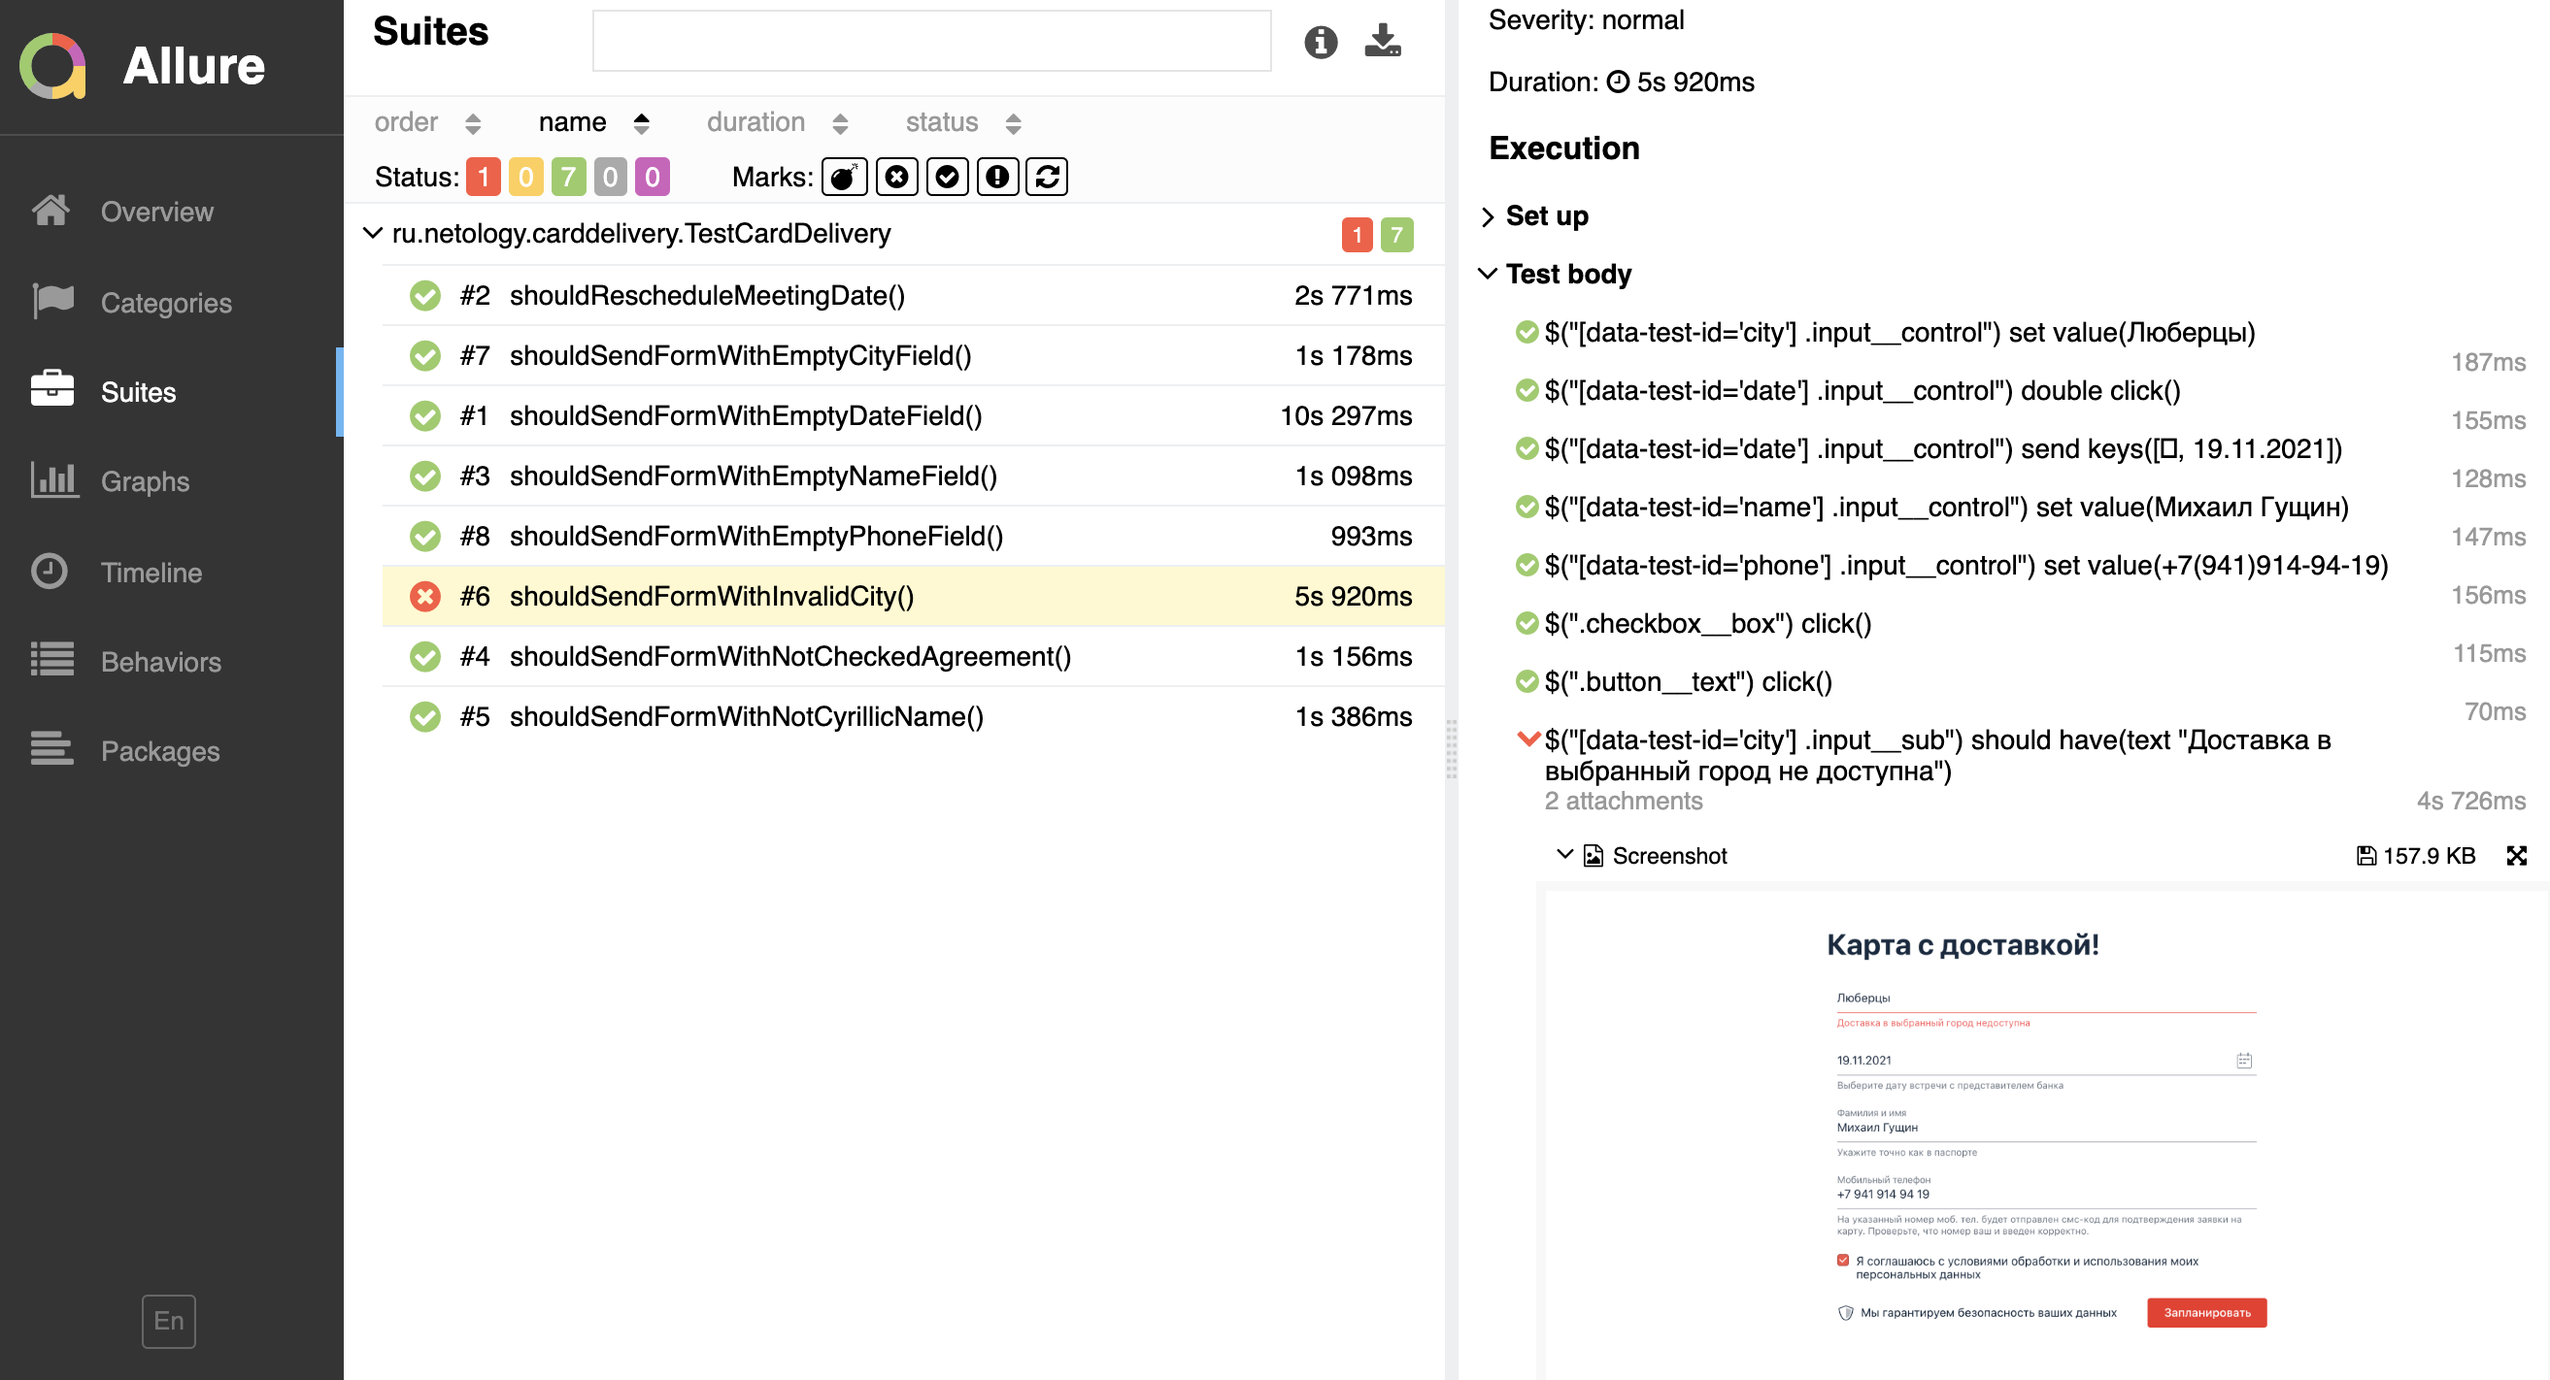
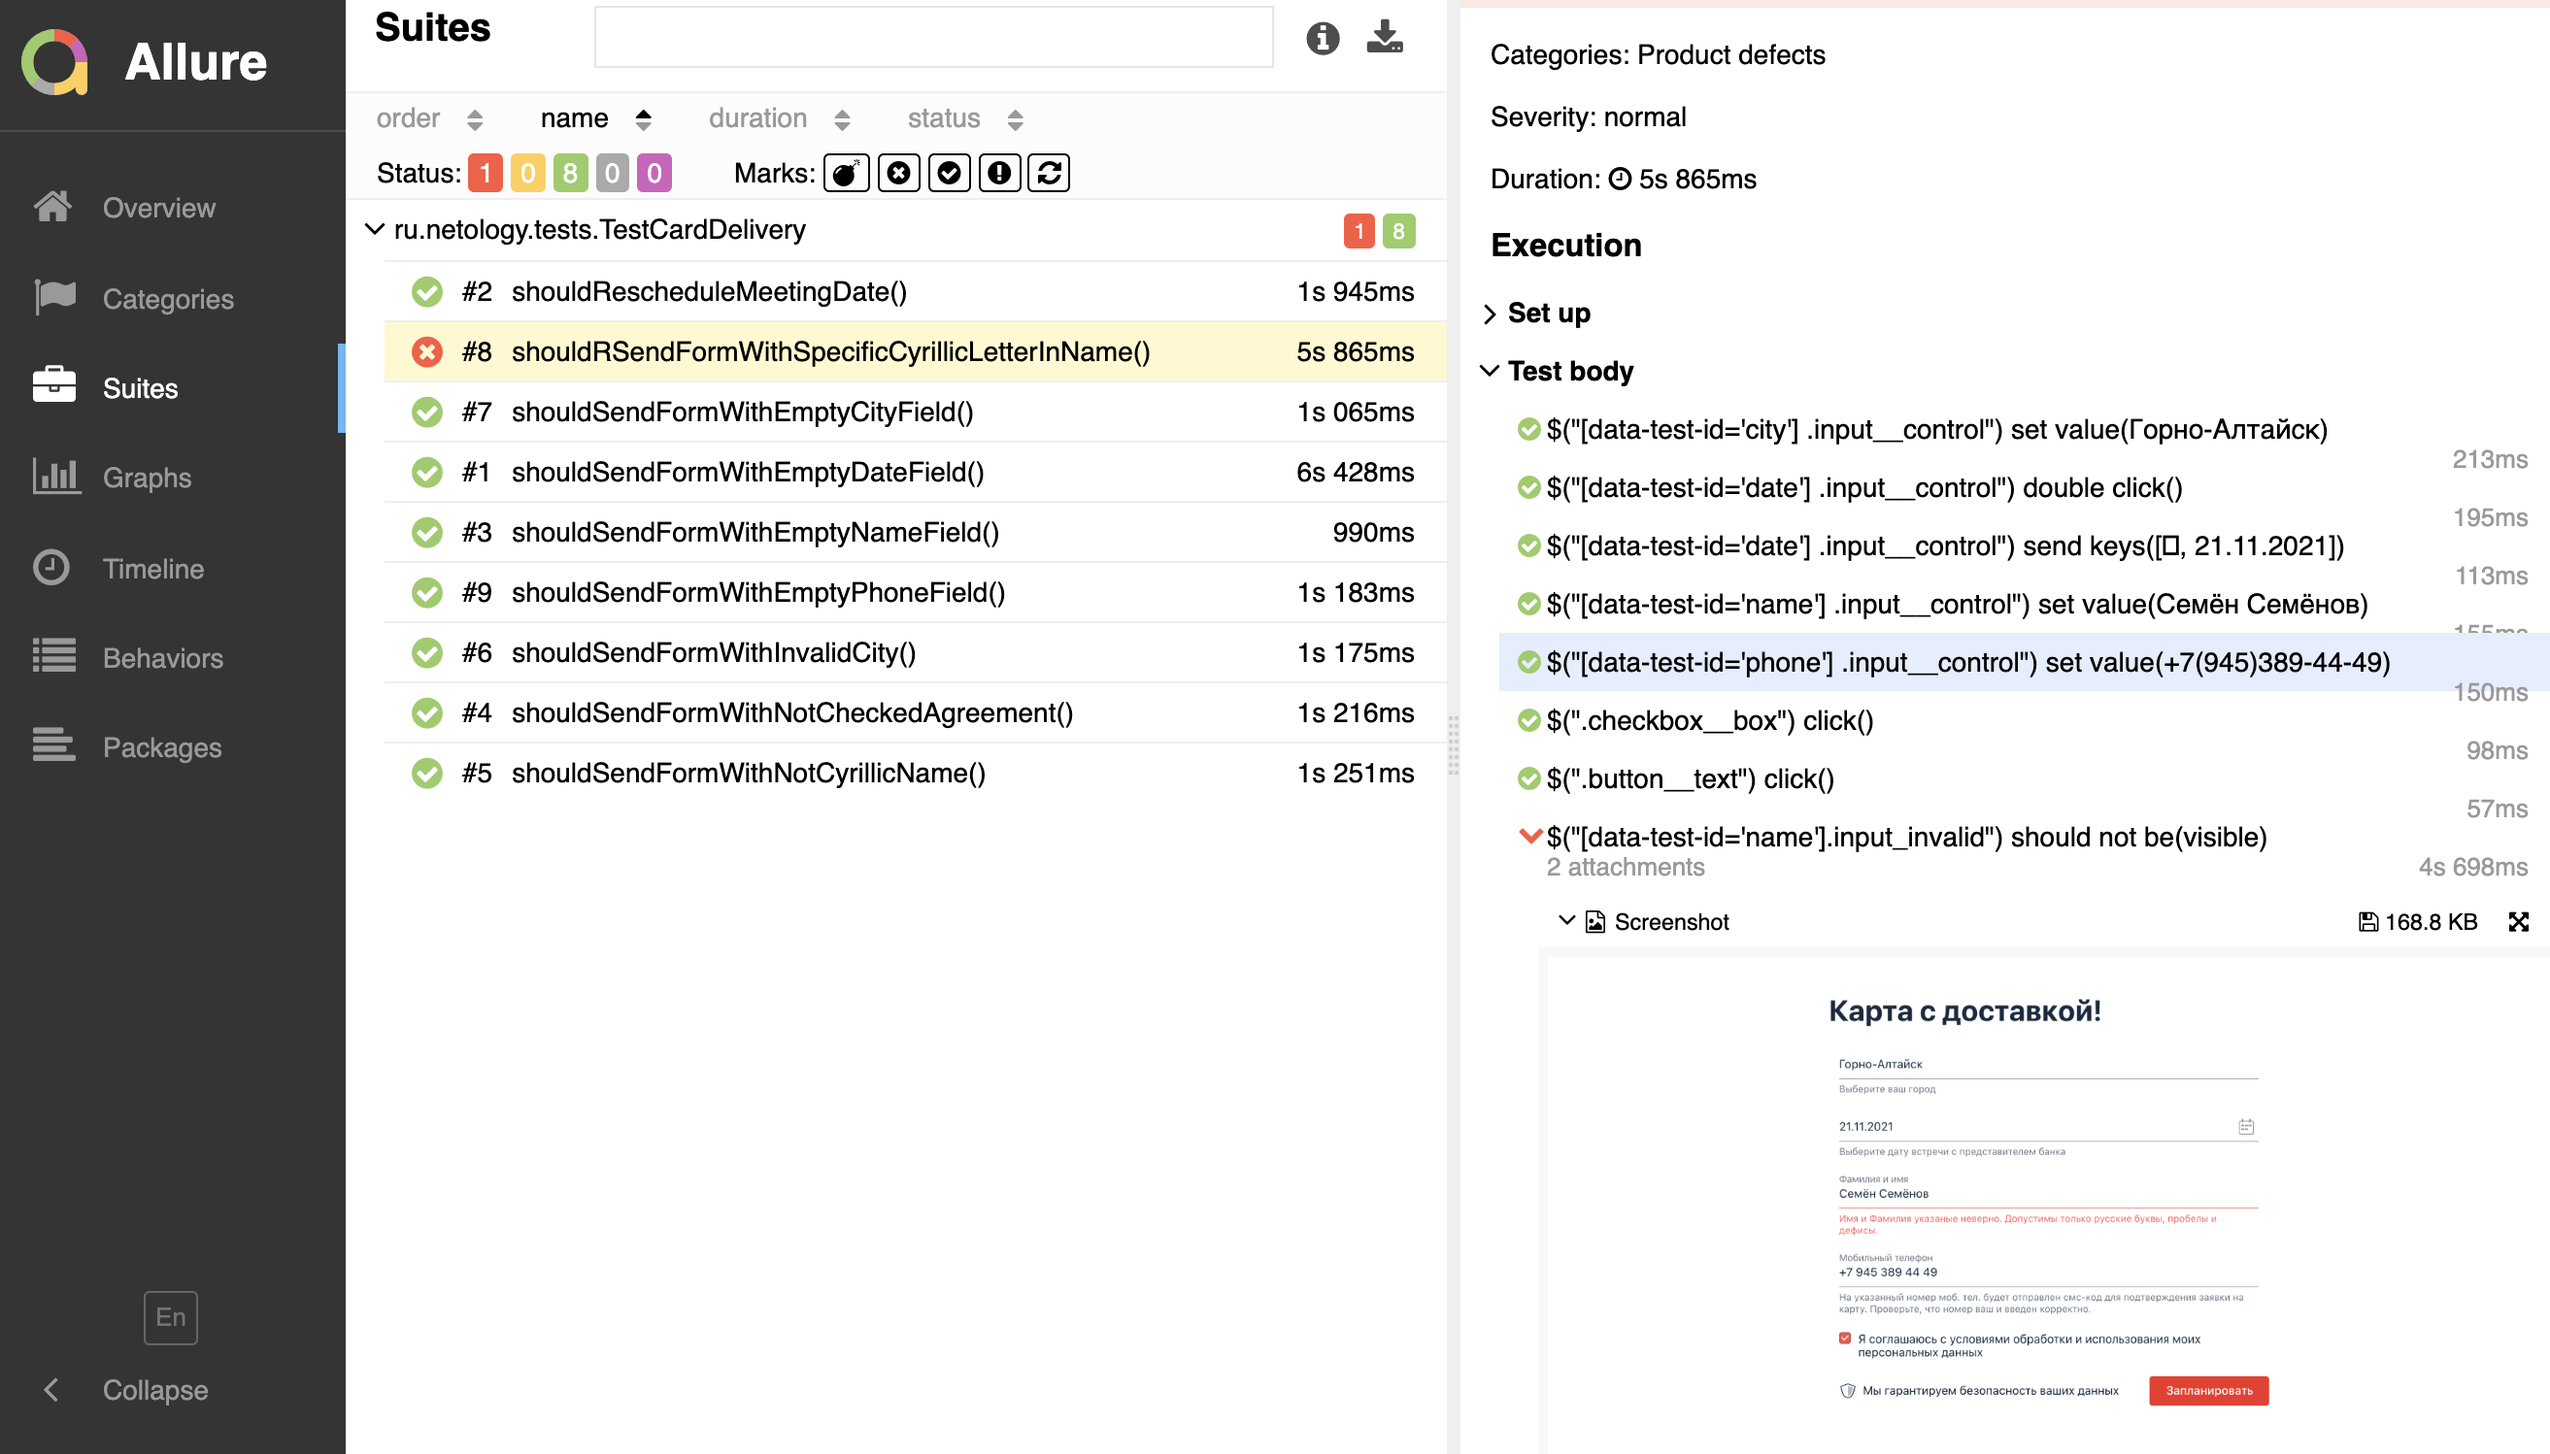
Added invalidName generator

diff --git a/src/test/java/ru/netology/tests/TestCardDelivery.java b/src/test/java/ru/netology/tests/TestCardDelivery.java
@@ -10,6 +10,7 @@ import ru.netology.data.DataGenerator;
 import ru.netology.data.PersonalDeliveryData;
 
 import static com.codeborne.selenide.Condition.text;
+import static com.codeborne.selenide.Condition.visible;
 import static com.codeborne.selenide.Selenide.*;
 import static ru.netology.data.DataGenerator.DeliveryData.*;
 
@@ -55,6 +56,19 @@ class TestCardDelivery {
 
     @Test
     @Severity(SeverityLevel.NORMAL)
+    void shouldRSendFormWithSpecificCyrillicLetterInName() {
+        $("[data-test-id='city'] .input__control").setValue(validCity());
+        $("[data-test-id='date'] .input__control").doubleClick()
+                .sendKeys(Keys.DELETE, generateDate(7));
+        $("[data-test-id='name'] .input__control").setValue(specificCyrillicLetterInName());
+        $("[data-test-id='phone'] .input__control").setValue(data.getPhoneNumber());
+        $(".checkbox__box").click();
+        $(".button__text").click();
+        $("[data-test-id='name'].input_invalid").shouldNotBe(visible);
+    }
+
+    @Test
+    @Severity(SeverityLevel.NORMAL)
     void shouldSendFormWithEmptyCityField() {
         $("[data-test-id='date'] .input__control").doubleClick()
                 .sendKeys(Keys.DELETE, generateDate(7));
@@ -71,7 +85,7 @@ class TestCardDelivery {
         $("[data-test-id='city'] .input__control").setValue(validCity());
         $("[data-test-id='date'] .input__control").doubleClick()
                 .sendKeys(Keys.DELETE, generateDate(7));
-        $("[data-test-id='name'] .input__control").setValue("Ivan Ivanov");
+        $("[data-test-id='name'] .input__control").setValue(invalidName());
         $("[data-test-id='phone'] .input__control").setValue(data.getPhoneNumber());
         $(".checkbox__box").click();
         $(".button__text").click();
@@ -138,6 +152,6 @@ class TestCardDelivery {
         $("[data-test-id='phone'] .input__control").setValue(data.getPhoneNumber());
         $(".checkbox__box").click();
         $(".button__text").click();
-        $("[data-test-id='city'] .input__sub").shouldHave(text("Доставка в выбранный город не доступна"));
+        $("[data-test-id='city'] .input__sub").shouldHave(text("Доставка в выбранный город недоступна"));
     }
 }

diff --git a/src/test/java/ru/netology/data/DataGenerator.java b/src/test/java/ru/netology/data/DataGenerator.java
@@ -19,8 +19,7 @@ public class DataGenerator {
             Faker faker = new Faker(new Locale("ru"));
             return new PersonalDeliveryData(
                     faker.address().city(),
-                    (faker.name().firstName() + " " + faker.name().lastName()).replaceAll("Ё", "Е")
-                            .replaceAll("ё", "е"),
+                    faker.name().firstName() + " " + faker.name().lastName(),
                     faker.phoneNumber().phoneNumber());
         }
 
@@ -34,6 +33,15 @@ public class DataGenerator {
             String[] validCity = {"Москва", "Санкт-Петербург", "Майкоп", "Горно-Алтайск", "Уфа", "Улан-Удэ",
                     "Калининград", "Салехард", "Тверь", "Екатеринбург"};
             return validCity[rand];
+        }
+
+        public static String specificCyrillicLetterInName() {
+            return "Семён Семёнов";
+        }
+
+        public static String invalidName() {
+            Faker faker = new Faker(new Locale("en"));
+            return faker.name().fullName();
         }
 
         public static String invalidCity() {
